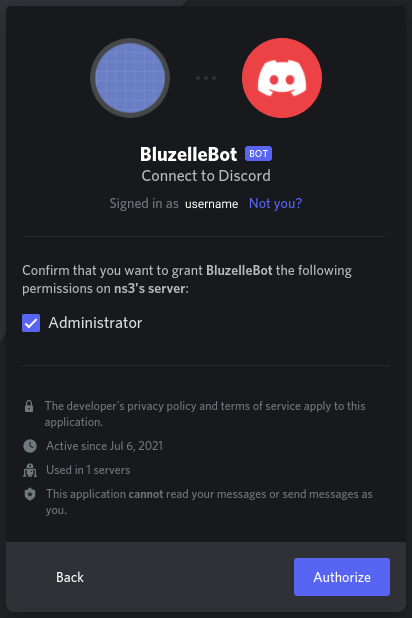
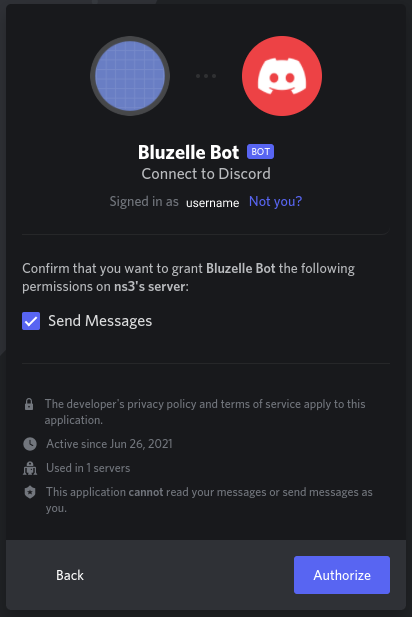
updated README.md

diff --git a/README.md b/README.md
@@ -66,13 +66,13 @@ This Bluzelle Discord Bot has 7 commands which retrieves information from bluzel
    * navigate to the OAuth2 tab of the application dashboard. To create an invite, scroll down and select bot under scopes.
    
    ![16](images/16.png)
-   * You must also set permissions to control what actions your bot can perform in guilds. For the purposes of this simplicity, select Administrator. Copy the link with the Copy button (under scopes).
+   * You must also set permissions to control what actions your bot can perform in guilds. select 'Send Messages'. Copy the link with the Copy button (under scopes).
    
    ![17](images/17.png)
    * Next, add the bot to a server. Follow the invite link you just created. You can add the bot to any server you own, or have administrator permissions in, from the drop-down menu. Now click Continue.
     
    ![18](images/18.png)
-   * Ensure you have the tickbox next to Administrator ticked, this will grant the bot administrator permissions. Then click Authorize.
+   * Ensure you have the tickbox next to 'Send Messages' ticked, this will grant the bot permissions. Then click Authorize.
     
    ![110](images/110.png)
    * You’ll now have the Discord bot on the members list in the server you added the bot to under offline.
